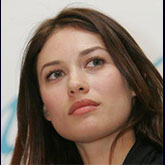
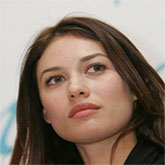
Правки

diff --git a/index.html b/index.html
@@ -237,24 +237,24 @@
       <div class="container">
         <div class="row">
           <div class="col3">
-            <img src="images/face1.jpg" alt="">
-            <p>Мария Мариева</p>
-            <p>Старший пилот</p>
+            <div class="photo photo1"></div>
+              <p>Мария Мариева</p>
+              <p>Старший пилот</p>
           </div>
           <div class="col3">
-            <img src="images/face2.jpg" alt="">
-            <p>Надежда Надеждова</p>
-            <p>Второй пилот</p>
+            <div class="photo photo2"></div>
+              <p>Надежда Надеждова</p>
+              <p>Второй пилот</p>
           </div>
           <div class="col3">
-            <img src="images/face3.jpg" alt="">
-            <p>Ирина Иринова</p>
-            <p>Авиадиспетчер</p>
+            <div class="photo photo3"></div>
+              <p>Ирина Иринова</p>
+              <p>Авиадиспетчер</p>
           </div>
           <div class="col3">
-            <img src="images/face4.jpg" alt="">
-            <p>Алена Аленова</p>
-            <p>Авиатехник</p>
+            <div class="photo photo4"></div>
+              <p>Алена Аленова</p>
+              <p>Авиатехник</p>
           </div>
         </div>
       </div>
@@ -368,24 +368,17 @@
 
     });
   </script>
-  <a href="" id="top-button">Наверх</a>
+  <a href="javascript:void(0)" id="top-button"><img src="images/button.png" /></a>
   <script>
     $(function() {
-    $('a[href*=#]:not([href=#])').click(function() {
-    if (location.pathname.replace(/^\//,'') == this.pathname.replace(/^\//,'') && location.hostname == this.hostname) {
-    var target = $(this.hash);
-    target = target.length ? target : $('[name=' + this.hash.slice(1) +']');
-    if (target.length) {
-    $('html,body').animate({
-    scrollTop: target.offset().top
-    }, 4000);
-    return false;
-    }
-    }
-    });
+      $('#top-button').click(function() {
+        $('body').animate({
+          scrollTop: 0
+        }, 800);
+      });
     });
 
-    $('#top-button').css('opacity', '0')
+    $('#top-button').css('opacity', '0');
 
     $(function () {
     var element = $("#top-button"), display;

diff --git a/css/style.css b/css/style.css
@@ -80,13 +80,13 @@ header, footer {
 
 .main-nav li {
   display: inline-block;
-  margin-left: 8px;
+  margin-left: 5px;
 }
 
 .main-nav .col9 a {
   color: #fff;
   border: 2px solid transparent;
-  padding: 5px;
+  padding: 6px 10px;
 }
 
 .main-nav .col9 a:hover {
@@ -298,6 +298,7 @@ header, footer {
 .price form select {
   -webkit-appearance: none;
   -moz-appearance: none;
+  background-color: #fff;
 }
 
 .price form input, .price form select {
@@ -309,6 +310,7 @@ header, footer {
   color: #444;
   font-family: Roboto, sans-serif;
   box-sizing: border-box;
+  outline: none;
 }
 
 .price form label, .price form input, .price form select {
@@ -444,8 +446,35 @@ margin-left: 75px;
   text-align: center;
 }
 
-.instructors .col3 img {
+.instructors .photo {
+  background-repeat: no-repeat;
+  height: 165px;
+  width: 165px;
   border-radius: 50%;
+  margin: 0 auto;
+}
+
+.instructors .photo:hover {
+  background-image: url('../images/glasses-hover.png');
+  background-position: 50% 50%;
+  background-color: #474747;
+  cursor: pointer;
+}
+
+.instructors .photo1 {
+  background-image: url('../images/face1.jpg');
+}
+
+.instructors .photo2 {
+  background-image: url('../images/face2.jpg');
+}
+
+.instructors .photo3 {
+  background-image: url('../images/face3.jpg');
+}
+
+.instructors .photo4 {
+  background-image: url('../images/face4.jpg');
 }
 
 .instructors .col3 p {
@@ -594,7 +623,6 @@ margin-left: 75px;
 
 #top-button {
   position: fixed;
-  left: 50px;
-  bottom: 50px;
-  color: #FF0000;
+  right: 50px;
+  bottom: 20px;
 }
